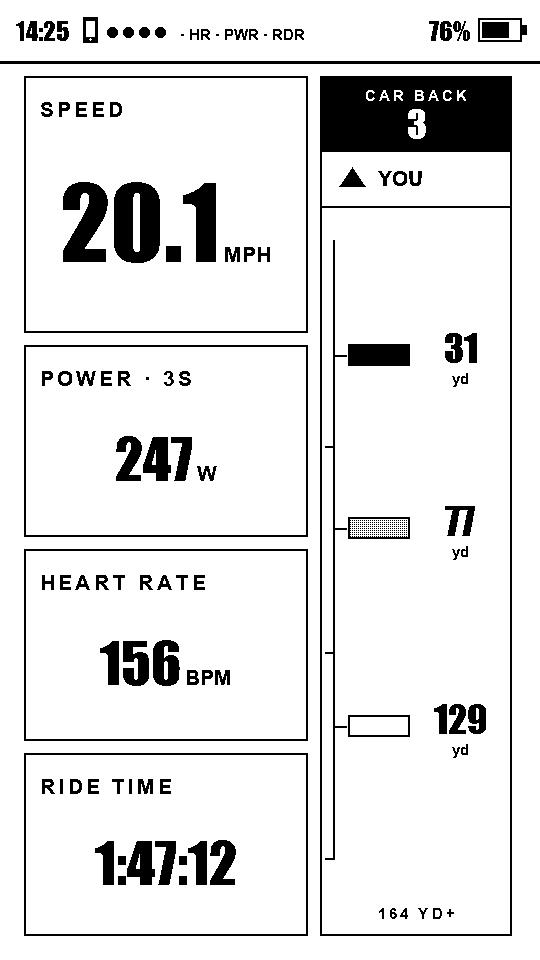
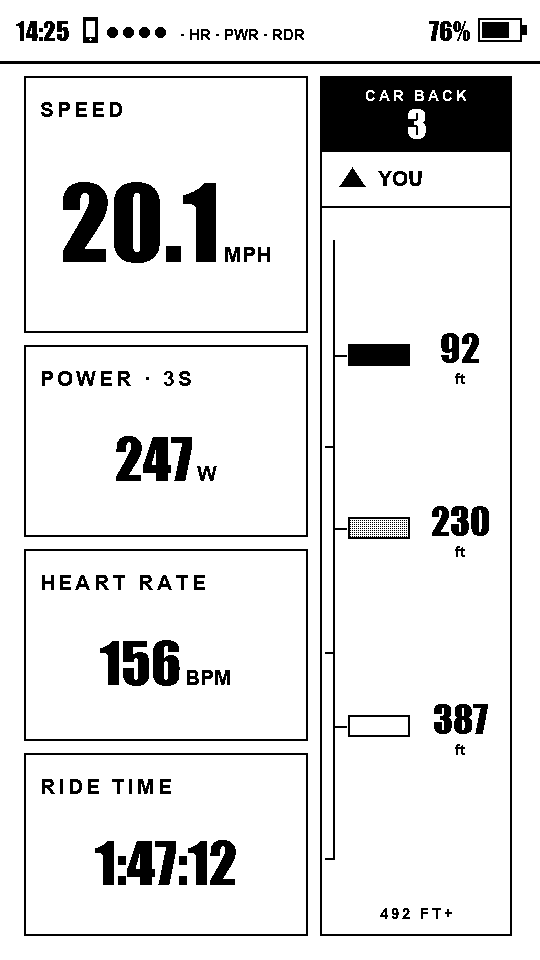
Display radar distances in feet for standard units

diff --git a/companion-android/app/src/main/java/com/raemond/opentrailpaper/ui/DashPreview.kt b/companion-android/app/src/main/java/com/raemond/opentrailpaper/ui/DashPreview.kt
@@ -42,6 +42,8 @@ import com.raemond.opentrailpaper.data.DashItem
 import com.raemond.opentrailpaper.data.DashLayout
 import com.raemond.opentrailpaper.data.DashSize
 import com.raemond.opentrailpaper.data.RideSim
+import com.raemond.opentrailpaper.data.Units
+import kotlin.math.roundToInt
 
 // A scaled likeness of the panel, drawn to the SAME rules ui_render.cpp uses.
 //
@@ -156,6 +158,7 @@ fun DashPreview(
     layout: DashLayout,
     modifier: Modifier = Modifier,
     live: RideSim? = null,
+    useMiles: Boolean = false,
 ) {
     BoxWithConstraints(
         modifier
@@ -177,7 +180,7 @@ fun DashPreview(
                         .offset(x = (p.x * k).dp, y = ((p.y - STATUS_H) * k).dp)
                         .size(width = (p.w * k).dp, height = (p.h * k).dp),
                 ) {
-                    Cell(p, k, live)
+                    Cell(p, k, live, useMiles)
                 }
             }
         }
@@ -185,14 +188,14 @@ fun DashPreview(
 }
 
 @Composable
-private fun Cell(p: Placed, k: Float, live: RideSim?) {
+private fun Cell(p: Placed, k: Float, live: RideSim?, useMiles: Boolean) {
     Box(
         Modifier
             .fillMaxSize()
             .border((RULE * k).dp, Color.Black),
     ) {
         if (p.item.field == "radar") {
-            RadarSample(k, p.h)
+            RadarSample(k, p.h, useMiles)
         } else if (p.hero) {
             Column(
                 Modifier
@@ -277,7 +280,7 @@ private fun ZoneBar(k: Float, width: Float, filled: Int) {
 }
 
 @Composable
-private fun RadarSample(k: Float, height: Float) {
+private fun RadarSample(k: Float, height: Float, useMiles: Boolean) {
     val riderBottom = if (height < 600) 120f else 130f
     val laneTop = riderBottom + 34
     val laneHeight = height - 78 - laneTop
@@ -292,13 +295,13 @@ private fun RadarSample(k: Float, height: Float) {
         Box(Modifier.offset((28 * k).dp, ((y - 11) * k).dp)
             .size((62 * k).dp, (22 * k).dp).border((2 * k).dp, Color.Black))
         if (distance == 52 || laneHeight * 66 / 150 > 66) {
-            Text("$distance", fontSize = (30 * k).sp, fontWeight = FontWeight.Bold, textAlign = TextAlign.Center,
+            Text("${Units.elevation(distance.toDouble(), useMiles).roundToInt()}", fontSize = (30 * k).sp, fontWeight = FontWeight.Bold, textAlign = TextAlign.Center,
                 modifier = Modifier.offset((100 * k).dp, ((y - 22) * k).dp).width((80 * k).dp))
-            Text("m", fontSize = (14 * k).sp, textAlign = TextAlign.Center,
+            Text(if (useMiles) "ft" else "m", fontSize = (14 * k).sp, textAlign = TextAlign.Center,
                 modifier = Modifier.offset((100 * k).dp, ((y + 15) * k).dp).width((80 * k).dp))
         }
     }
-    Text("150 M+", fontSize = (14 * k).sp, fontWeight = FontWeight.Bold,
+    Text(if (useMiles) "492 FT+" else "150 M+", fontSize = (14 * k).sp, fontWeight = FontWeight.Bold,
         modifier = Modifier.offset((62 * k).dp, ((height - 31) * k).dp))
 }
 

diff --git a/companion-ios/Sources/DashboardEditorView.swift b/companion-ios/Sources/DashboardEditorView.swift
@@ -500,6 +500,7 @@ private let kLabelLadder: [LabelFace] = [
 private let kUnitFace = LabelFace(cap: 15, ascender: 19, perChar: 13.5)
 
 struct DashPreview: View {
+    @AppStorage(UnitPref.key) private var useMiles = false
     let layout: DashLayout
 
     /// A ride to read the numbers off, for the tutorial's live head unit. The
@@ -696,13 +697,13 @@ struct DashPreview: View {
                 Rectangle().strokeBorder(Color.black, lineWidth: 2 * k)
                     .frame(width: 62 * k, height: 22 * k).offset(x: 28 * k, y: y - 11 * k)
                 if distance == 52 || laneHeight * 66 / 150 > 66 {
-                    Text("\(distance)").font(.system(size: 30 * k, weight: .bold))
+                    Text("\(Int(Units.elevation(Double(distance), miles: useMiles).rounded()))").font(.system(size: 30 * k, weight: .bold))
                         .frame(width: 80 * k).offset(x: 100 * k, y: y - 22 * k)
-                    Text("m").font(.system(size: 14 * k))
+                    Text(useMiles ? "ft" : "m").font(.system(size: 14 * k))
                         .frame(width: 80 * k).offset(x: 100 * k, y: y + 15 * k)
                 }
             }
-            Text("150 M+").font(.system(size: 14 * k, weight: .bold))
+            Text(useMiles ? "492 FT+" : "150 M+").font(.system(size: 14 * k, weight: .bold))
                 .offset(x: 62 * k, y: (height - 31) * k)
         }
     }

diff --git a/companion-android/app/src/main/java/com/raemond/opentrailpaper/ui/DashboardEditorSheet.kt b/companion-android/app/src/main/java/com/raemond/opentrailpaper/ui/DashboardEditorSheet.kt
@@ -164,6 +164,7 @@ fun DashboardEditorSheet(ble: BleManager, onDismiss: () -> Unit) {
                 .padding(vertical = 16.dp),
         ) {
             PageCarousel(
+                useMiles = ble.useMiles,
                 config = config,
                 pageIx = pageIx,
                 onSelect = { pageIx = it },
@@ -329,6 +330,7 @@ fun DashboardEditorSheet(ble: BleManager, onDismiss: () -> Unit) {
  */
 @Composable
 private fun PageCarousel(
+    useMiles: Boolean,
     config: DashConfig,
     pageIx: Int,
     onSelect: (Int) -> Unit,
@@ -397,6 +399,7 @@ private fun PageCarousel(
                     },
             ) {
                 PageCard(
+                    useMiles = useMiles,
                     config = config,
                     page = page,
                     selected = pageIx == i,
@@ -419,6 +422,7 @@ private fun PageCarousel(
 
 @Composable
 private fun PageCard(
+    useMiles: Boolean,
     config: DashConfig,
     page: DashConfig.Page,
     selected: Boolean,
@@ -454,6 +458,7 @@ private fun PageCard(
                 DashConfig.PageKind.FIELDS -> DashPreview(
                     page.layout,
                     Modifier.fillMaxWidth().aspectRatio(DASH_PANEL_ASPECT),
+                    useMiles = useMiles,
                 )
             }
         }

diff --git a/src/ui_render.cpp b/src/ui_render.cpp
@@ -848,7 +848,7 @@ void ui_render_radar(const RideState& s, const EpdRect& r, uint8_t* fb) {
     epd_fill_rect({r.x + 13, laneTop, 2, laneHeight + 1}, ui::INK, fb);
     for (int i = 1; i <= 3; ++i)
         epd_fill_rect({r.x + 5, laneTop + laneHeight * i / 3, 10, 2}, ui::INK, fb);
-    ui::label(cx, r.y + r.height - 17, s.useMiles ? "164 YD+" : "150 M+", fb);
+    ui::label(cx, r.y + r.height - 17, s.useMiles ? "492 FT+" : "150 M+", fb);
     if (!live) {
         ui::label(cx, laneTop + laneHeight / 2, "CHECK", fb);
         ui::label(cx, laneTop + laneHeight / 2 + 25, "RADAR", fb);
@@ -873,10 +873,10 @@ void ui_render_radar(const RideState& s, const EpdRect& r, uint8_t* fb) {
         epd_fill_rect({r.x + 13, y, 14, 2}, ui::INK, fb);
         if (y - 30 <= labelBottom) continue;
         char distance[16];
-        const int value = s.useMiles ? int(target.distanceM * 1.0936133f + 0.5f) : target.distanceM;
+        const int value = int(units::elev(target.distanceM, s.useMiles) + 0.5);
         snprintf(distance, sizeof(distance), "%d", value);
         ui::text(&Impact_T, r.x + 140, y + 8, distance, fb, EPD_DRAW_ALIGN_CENTER);
-        ui::text(&Arial_L, r.x + 140, y + 29, s.useMiles ? "yd" : "m", fb, EPD_DRAW_ALIGN_CENTER);
+        ui::text(&Arial_L, r.x + 140, y + 29, s.useMiles ? "ft" : "m", fb, EPD_DRAW_ALIGN_CENTER);
         labelBottom = y + 36;
     }
 }

diff --git a/docs/varia-radar.md b/docs/varia-radar.md
@@ -24,7 +24,7 @@ use outline (>100 m), dotted (40–100 m), and solid (<40 m) ink. The header sho
 the track count and changes to CAR BACK when the nearest target is under 40 m.
 Each marker stays at the reported distance. Crowded distance labels are omitted,
 nearest first, so a label never overwrites another car. Metric distances use
-metres; imperial distances use yards. The 150 m / 164 yd scale saturates at its
+metres; standard (imperial) distances use feet. The 150 m / 492 ft scale saturates at its
 far end (marked +); the number still shows the reported distance beyond it.
 
 A configured radar tile stays visible even with Hide offline fields enabled.
